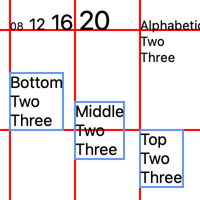
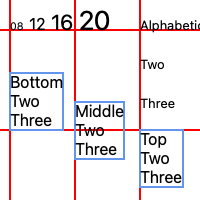
feat: add line height test to testbed (#44)
Fixes #36

diff --git a/testbed/tests/widgets/test_canvas.py b/testbed/tests/widgets/test_canvas.py
@@ -733,9 +733,12 @@ async def test_multiline_text(canvas, probe):
         # accepted.
         text_filler.write_text("", X[1], y)
 
-        # Explicit ALPHABETIC baseline, with default font and size. On most systems,
-        # this will go off the right edge of the canvas.
-        text_filler.write_text(caption(Baseline.ALPHABETIC), X[2], y)
+        # Explicit ALPHABETIC baseline, with default font and size but specified
+        # line height. On most systems, this will go off the right edge of the canvas.
+        line_height = 2.5
+        text_filler.write_text(
+            caption(Baseline.ALPHABETIC), X[2], y, line_height=line_height
+        )
 
     # Other baselines, with default font but specified size
     y = 130

diff --git a/changes/36.feature.rst b/changes/36.feature.rst
@@ -1,0 +1,1 @@
+Update testbed tests.
